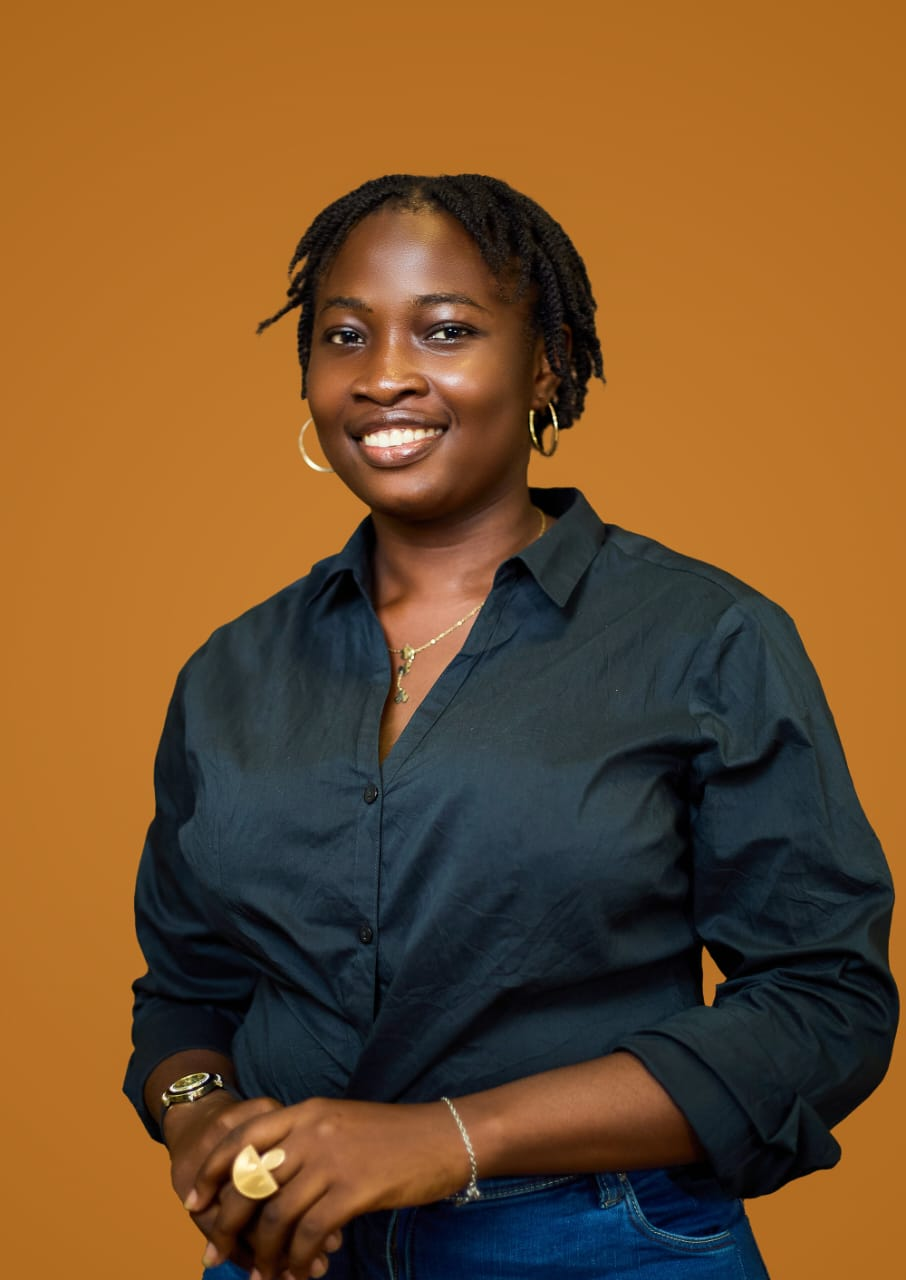
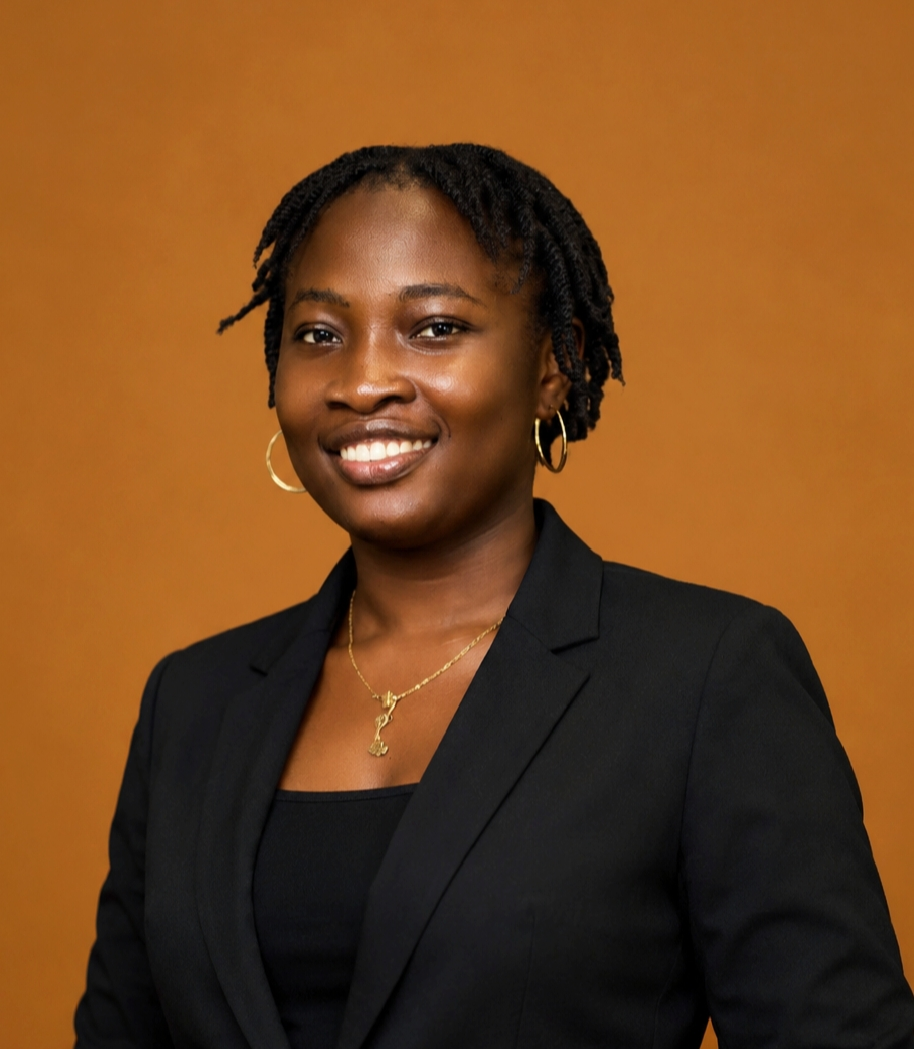
portfolio

diff --git a/src/components/PortfolioSection.vue b/src/components/PortfolioSection.vue
@@ -21,10 +21,10 @@
 
       <div class="grid grid-cols-1 sm:grid-cols-2 lg:grid-cols-3 gap-5">
         <article
-          v-for="(proj, i) in filteredProjects"
+          v-for="(proj, i) in paginatedProjects"
           :key="proj.title"
-          class="group animate-card-in overflow-hidden rounded-2xl border border-white/8 bg-[#1a1419] transition-all duration-300 hover:-translate-y-1 hover:border-rose/25 hover:shadow-[0_20px_60px_rgba(212,160,176,0.08)]"
-          :style="{ animationDelay: `${i * 90}ms` }"
+          v-reveal="{ delay: i * 80 }"
+          class="group overflow-hidden rounded-2xl border border-white/8 bg-[#1a1419] transition-all duration-300 hover:-translate-y-1 hover:border-rose/25 hover:shadow-[0_20px_60px_rgba(212,160,176,0.08)]"
         >
           <a
             :href="projectHref(proj)"
@@ -81,16 +81,58 @@
           </div>
         </article>
       </div>
+
+      <!-- Pagination Controls -->
+      <div v-if="totalPages > 1" class="flex justify-center items-center gap-3 mt-12 animate-fade-up">
+        <button
+          @click="currentPage > 1 && (currentPage--)"
+          :disabled="currentPage === 1"
+          class="w-10 h-10 rounded-full border border-white/10 flex items-center justify-center text-white/50 hover:border-rose/30 hover:text-rose transition-all disabled:opacity-30 disabled:pointer-events-none"
+          aria-label="Page précédente"
+        >
+          <span aria-hidden="true">←</span>
+        </button>
+        
+        <button
+          v-for="page in totalPages"
+          :key="page"
+          @click="currentPage = page"
+          class="w-10 h-10 rounded-full border text-xs font-semibold transition-all"
+          :class="currentPage === page
+            ? 'bg-rose border-rose text-[#0e0c0d]'
+            : 'border-white/10 text-white/50 hover:border-white/20 hover:text-white'"
+        >
+          {{ page }}
+        </button>
+
+        <button
+          @click="currentPage < totalPages && (currentPage++)"
+          :disabled="currentPage === totalPages"
+          class="w-10 h-10 rounded-full border border-white/10 flex items-center justify-center text-white/50 hover:border-rose/30 hover:text-rose transition-all disabled:opacity-30 disabled:pointer-events-none"
+          aria-label="Page suivante"
+        >
+          <span aria-hidden="true">→</span>
+        </button>
+      </div>
     </div>
   </section>
 </template>
 
 <script setup>
-import { ref, computed } from 'vue'
+import { ref, computed, watch } from 'vue'
 import { projects, filterCategories } from '../data/portfolio.js'
 
 const categories = filterCategories
 const active = ref('Tous')
+
+// Pagination
+const currentPage = ref(1)
+const itemsPerPage = 3
+
+// Réinitialiser la page quand la catégorie change
+watch(active, () => {
+  currentPage.value = 1
+})
 
 function projectHref(project) {
   return project.liveUrl || '#contact'
@@ -101,4 +143,11 @@ const filteredProjects = computed(() =>
     ? projects
     : projects.filter(p => p.cat === active.value)
 )
+
+const totalPages = computed(() => Math.ceil(filteredProjects.value.length / itemsPerPage))
+
+const paginatedProjects = computed(() => {
+  const start = (currentPage.value - 1) * itemsPerPage
+  return filteredProjects.value.slice(start, start + itemsPerPage)
+})
 </script>

diff --git a/src/assets/main.css b/src/assets/main.css
@@ -170,6 +170,36 @@ body {
   animation: floatSlow 5.5s ease-in-out infinite;
 }
 
+/* ─── SCROLL REVEAL ANIMATIONS ──────────────────────────────── */
+.reveal-init {
+  opacity: 0;
+  transform: translateY(30px) scale(0.98);
+  transition: opacity 0.85s cubic-bezier(0.16, 1, 0.3, 1), 
+              transform 0.85s cubic-bezier(0.16, 1, 0.3, 1);
+  will-change: transform, opacity;
+}
+
+.reveal-active {
+  opacity: 1;
+  transform: translateY(0) scale(1) translateX(0) !important;
+}
+
+.reveal-init.reveal-left {
+  transform: translateX(-35px);
+}
+
+.reveal-init.reveal-right {
+  transform: translateX(35px);
+}
+
+.reveal-init.reveal-down {
+  transform: translateY(-30px);
+}
+
+.reveal-init.reveal-scale {
+  transform: scale(0.94);
+}
+
 @media (prefers-reduced-motion: reduce) {
   *,
   *::before,
@@ -178,5 +208,12 @@ body {
     animation-iteration-count: 1 !important;
     scroll-behavior: auto !important;
     transition-duration: 0.01ms !important;
+    transition-delay: 0s !important;
+  }
+  .reveal-init {
+    opacity: 1 !important;
+    transform: none !important;
+    transition: none !important;
   }
 }
+

diff --git a/src/main.js b/src/main.js
@@ -2,4 +2,35 @@ import { createApp } from 'vue'
 import App from './App.vue'
 import './assets/main.css'
 
-createApp(App).mount('#app')
+const app = createApp(App)
+
+// Directive personnalisée pour les animations au défilement (scroll reveal)
+app.directive('reveal', {
+  mounted(el, binding) {
+    el.classList.add('reveal-init')
+    
+    const delay = binding.value?.delay || 0
+    const direction = binding.value?.direction || 'up' // up, down, left, right, scale
+    
+    if (direction !== 'up') {
+      el.classList.add(`reveal-${direction}`)
+    }
+
+    const observer = new IntersectionObserver((entries) => {
+      entries.forEach(entry => {
+        if (entry.isIntersecting) {
+          setTimeout(() => {
+            el.classList.add('reveal-active')
+          }, delay)
+          observer.unobserve(el)
+        }
+      })
+    }, {
+      threshold: 0.05,
+      rootMargin: '0px 0px -40px 0px' // Se déclenche un peu avant l'apparition
+    })
+    observer.observe(el)
+  }
+})
+
+app.mount('#app')

diff --git a/src/components/AppNav.vue b/src/components/AppNav.vue
@@ -2,9 +2,10 @@
   <!-- NAVBAR-->
   <nav
     class="fixed top-0 inset-x-0 z-50 flex items-center justify-between
-           px-6 md:px-10 h-[64px]
-           bg-[#0e0c0d]/85 backdrop-blur-md
-           border-b border-white/5 transition-all"
+           px-6 md:px-10 transition-all duration-300"
+    :class="isScrolled 
+      ? 'h-[56px] bg-[#0e0c0d]/95 backdrop-blur-lg border-b border-rose/15 shadow-[0_10px_30px_rgba(0,0,0,0.3)]' 
+      : 'h-[64px] bg-[#0e0c0d]/80 backdrop-blur-md border-b border-white/5'"
   >
     <!-- Logo -->
     <a href="#home" class="font-serif text-xl tracking-tight shrink-0">
@@ -62,7 +63,7 @@
     >
       <div
         v-if="menuOpen"
-        class="absolute top-[64px] inset-x-0 bg-[#130f12] border-b border-white/5
+        class="absolute top-full inset-x-0 bg-[#130f12] border-b border-white/5
                flex flex-col px-6 py-5 gap-4 md:hidden"
       >
         <a
@@ -84,10 +85,23 @@
 </template>
 
 <script setup>
-import { ref } from 'vue'
+import { ref, onMounted, onUnmounted } from 'vue'
 import { navLinks } from '../data/portfolio.js'
 
 defineProps({ activeSection: { type: String, default: 'home' } })
 
 const menuOpen = ref(false)
+const isScrolled = ref(false)
+
+const handleScroll = () => {
+  isScrolled.value = window.scrollY > 20
+}
+
+onMounted(() => {
+  window.addEventListener('scroll', handleScroll)
+})
+
+onUnmounted(() => {
+  window.removeEventListener('scroll', handleScroll)
+})
 </script>

diff --git a/src/components/HeroSection.vue b/src/components/HeroSection.vue
@@ -22,7 +22,7 @@ onUnmounted(() => clearInterval(timer))
       <div
         v-for="(slide, i) in slides"
         :key="i"
-        class="relative min-w-full h-full flex items-center">
+        class="relative min-w-full h-full flex items-center pt-[72px] lg:pt-[64px]">
        
         <div class="absolute inset-0" :style="{ background: slide.bg }"></div>
         <div class="absolute inset-0 bg-black/40"></div>
@@ -33,17 +33,24 @@ onUnmounted(() => clearInterval(timer))
           :style="{ background: slide.accent }"></div>
 
         <div class="relative z-10 px-6 sm:px-12 md:px-20 max-w-2xl animate-fade-up">
-          <p class="text-xs font-semibold tracking-[.2em] uppercase text-rose mb-5 flex items-center gap-3 animate-fade-up-delay-1">
+          <!-- Photo de profil sur mobile -->
+          <div class="lg:hidden mb-5">
+            <div class="w-20 h-20 rounded-2xl overflow-hidden border border-white/15 shadow-xl" :style="{ background: slide.photoGradient }">
+              <img src="/maTof.jpeg" class="w-full h-full object-cover" alt="Portrait de Toure Fadilatou Mariam">
+            </div>
+          </div>
+
+          <p class="text-[10px] lg:text-xs font-semibold tracking-[.2em] uppercase text-rose mb-3 lg:mb-5 flex items-center gap-3 animate-fade-up-delay-1">
             <span class="w-8 h-px bg-rose"></span>{{ slide.tag }}
           </p>
           <h1
-            class="font-serif text-4xl sm:text-5xl md:text-6xl leading-[1.05] text-white mb-6 animate-fade-up-delay-2"
+            class="font-serif text-3xl sm:text-5xl md:text-6xl leading-[1.1] text-white mb-4 lg:mb-6 animate-fade-up-delay-2"
             v-html="slide.title">
           </h1>
-          <p class="text-white/55 text-base md:text-lg leading-relaxed mb-10 font-light max-w-md animate-fade-up-delay-3">
+          <p class="text-white/55 text-xs sm:text-base md:text-lg leading-relaxed mb-6 lg:mb-10 font-light max-w-md animate-fade-up-delay-3">
             {{ slide.desc }}
           </p>
-          <div class="flex flex-wrap gap-4 animate-fade-up-delay-4">
+          <div class="flex flex-wrap gap-3 lg:gap-4 animate-fade-up-delay-4">
             <!-- CTA 1 -->
             <button
               v-if="slide.cta1.isCv"
@@ -72,7 +79,7 @@ onUnmounted(() => clearInterval(timer))
           </div>
         </div>
 
-        <div class="absolute right-8 lg:right-20 top-1/2 -translate-y-1/2 hidden lg:block animate-float-slow">
+        <div class="absolute right-8 lg:right-20 top-[calc(50%+115px)] -translate-y-1/2 hidden lg:block animate-float-slow">
           <div
             class="w-64 h-80 xl:w-72 xl:h-[340px] rounded-3xl overflow-hidden
              border border-white/10 shadow-2xl"  :style="{ background: slide.photoGradient }">

diff --git a/public/cv.html b/public/cv.html
@@ -40,6 +40,7 @@
       background: #fff;
       box-shadow: 0 18px 60px rgba(16, 17, 20, .14);
       overflow: hidden;
+      position: relative;
     }
 
     .hero {
@@ -351,6 +352,16 @@
             <span class="tag">Sens du detail</span>
           </div>
         </section>
+
+        <section>
+          <h2>Centres d'intérêt</h2>
+          <div class="tags">
+            <span class="tag">Veille technologique</span>
+            <span class="tag">UI/UX Design</span>
+            <span class="tag">Lecture</span>
+            <span class="tag">Jeux d'échecs</span>
+          </div>
+        </section>
       </aside>
 
       <main>
@@ -427,6 +438,10 @@
           </div>
         </section>
       </main>
+    </div>
+    <!-- Footer de pagination -->
+    <div style="position: absolute; bottom: 15px; right: 24px; color: var(--muted); font-size: 8px; font-weight: 500; letter-spacing: 0.05em;">
+      Page 1/1
     </div>
   </div>
 </body>

diff --git a/src/components/ServicesSection.vue b/src/components/ServicesSection.vue
@@ -10,9 +10,10 @@
       <!-- Grid -->
       <div class="grid grid-cols-1 sm:grid-cols-2 lg:grid-cols-4 gap-5">
         <div
-          v-for="svc in services"
+          v-for="(svc, i) in services"
           :key="svc.title"
-          class="group animate-card-in relative overflow-hidden bg-[#1a1419]/40 border border-white/5 rounded-2xl p-7
+          v-reveal="{ delay: i * 100 }"
+          class="group relative overflow-hidden bg-[#1a1419]/40 border border-white/5 rounded-2xl p-7
                  hover:-translate-y-2 hover:border-rose/25 hover:bg-[#1a1419]/75
                  hover:shadow-[0_20px_60px_rgba(212,160,176,0.05)]
                  transition-all duration-300 cursor-default backdrop-blur-sm"
@@ -40,10 +41,6 @@
           </div>
           <h4 class="font-semibold text-white text-[15px] mb-3">{{ svc.title }}</h4>
           <p class="text-white/40 text-sm leading-relaxed">{{ svc.desc }}</p>
-          <span class="mt-5 text-xs font-semibold text-rose flex items-center gap-1
-                       group-hover:gap-2 transition-all">
-            En savoir plus <span>→</span>
-          </span>
         </div>
       </div>
     </div>

diff --git a/src/utils/cv.js b/src/utils/cv.js
@@ -17,6 +17,11 @@ export const downloadCV = async () => {
     tempContainer.style.position = 'fixed'
     tempContainer.style.left = '-9999px'
     tempContainer.style.top = '-9999px'
+    
+    // Supprimer les marges et ombres d'écran pour forcer une seule page PDF
+    element.style.margin = '0'
+    element.style.boxShadow = 'none'
+    
     tempContainer.appendChild(element)
     
     // Copier les styles de cv.html

diff --git a/src/components/AboutSection.vue b/src/components/AboutSection.vue
@@ -1,7 +1,7 @@
 <template>
   <section id="about" class="px-6 sm:px-10 py-20 md:py-28">
     <div class="max-w-6xl mx-auto grid grid-cols-1 lg:grid-cols-2 gap-16 md:gap-20 items-start">
-      <div>
+      <div v-reveal="{ direction: 'left' }">
         <p class="sec-label">Technologies</p>
         <h2 class="sec-title">Competences</h2>
         <div class="sec-divider"></div>
@@ -72,7 +72,7 @@
         </TransitionGroup>
       </div>
 
-      <div>
+      <div v-reveal="{ direction: 'right', delay: 100 }">
         <p class="sec-label">A propos</p>
         <h2 class="sec-title">
           Developpeuse<br>

diff --git a/src/components/StatsRibbon.vue b/src/components/StatsRibbon.vue
@@ -4,8 +4,8 @@
     <div
       v-for="(stat, i) in stats"
       :key="stat.label"
-      class="animate-card-in text-center"
-      :style="{ animationDelay: `${i * 80}ms` }"
+      v-reveal="{ delay: i * 80 }"
+      class="text-center"
     >
       <div class="font-serif text-3xl md:text-4xl text-rose transition-transform duration-300 hover:scale-110">{{ stat.value }}</div>
       <div class="text-[10px] md:text-xs tracking-widest uppercase text-white/35 mt-1">{{ stat.label }}</div>

diff --git a/src/components/BlogSection.vue b/src/components/BlogSection.vue
@@ -7,8 +7,9 @@
 
       <div class="grid grid-cols-1 md:grid-cols-3 gap-6">
         <article
-          v-for="post in posts"
+          v-for="(post, i) in posts"
           :key="post.title"
+          v-reveal="{ delay: i * 100 }"
           class="group bg-[#1a1419] border border-white/5 rounded-2xl overflow-hidden hover:-translate-y-2 hover:shadow-[0_16px_48px_rgba(0,0,0,.4)] transition-all duration-300"
         >
           <div class="h-44 md:h-48 relative overflow-hidden" :style="{ background: post.bg }">

diff --git a/src/components/ContactSection.vue b/src/components/ContactSection.vue
@@ -1,7 +1,7 @@
 <template>
   <section id="contact" class="px-6 sm:px-10 py-20 md:py-28">
     <div class="max-w-6xl mx-auto grid grid-cols-1 lg:grid-cols-2 gap-14 md:gap-20">
-      <div>
+      <div v-reveal="{ direction: 'left' }">
         <p class="sec-label">Parlons-en</p>
         <h2 class="sec-title">Me contacter</h2>
         <div class="sec-divider"></div>
@@ -62,6 +62,7 @@
       <form
         @submit.prevent="handleSubmit"
         novalidate
+        v-reveal="{ direction: 'right', delay: 100 }"
         class="bg-[#1a1419]/40 border border-white/5 rounded-2xl p-6 md:p-8 flex flex-col gap-4 shadow-xl backdrop-blur-md"
       >
         <div class="grid grid-cols-1 sm:grid-cols-2 gap-4">